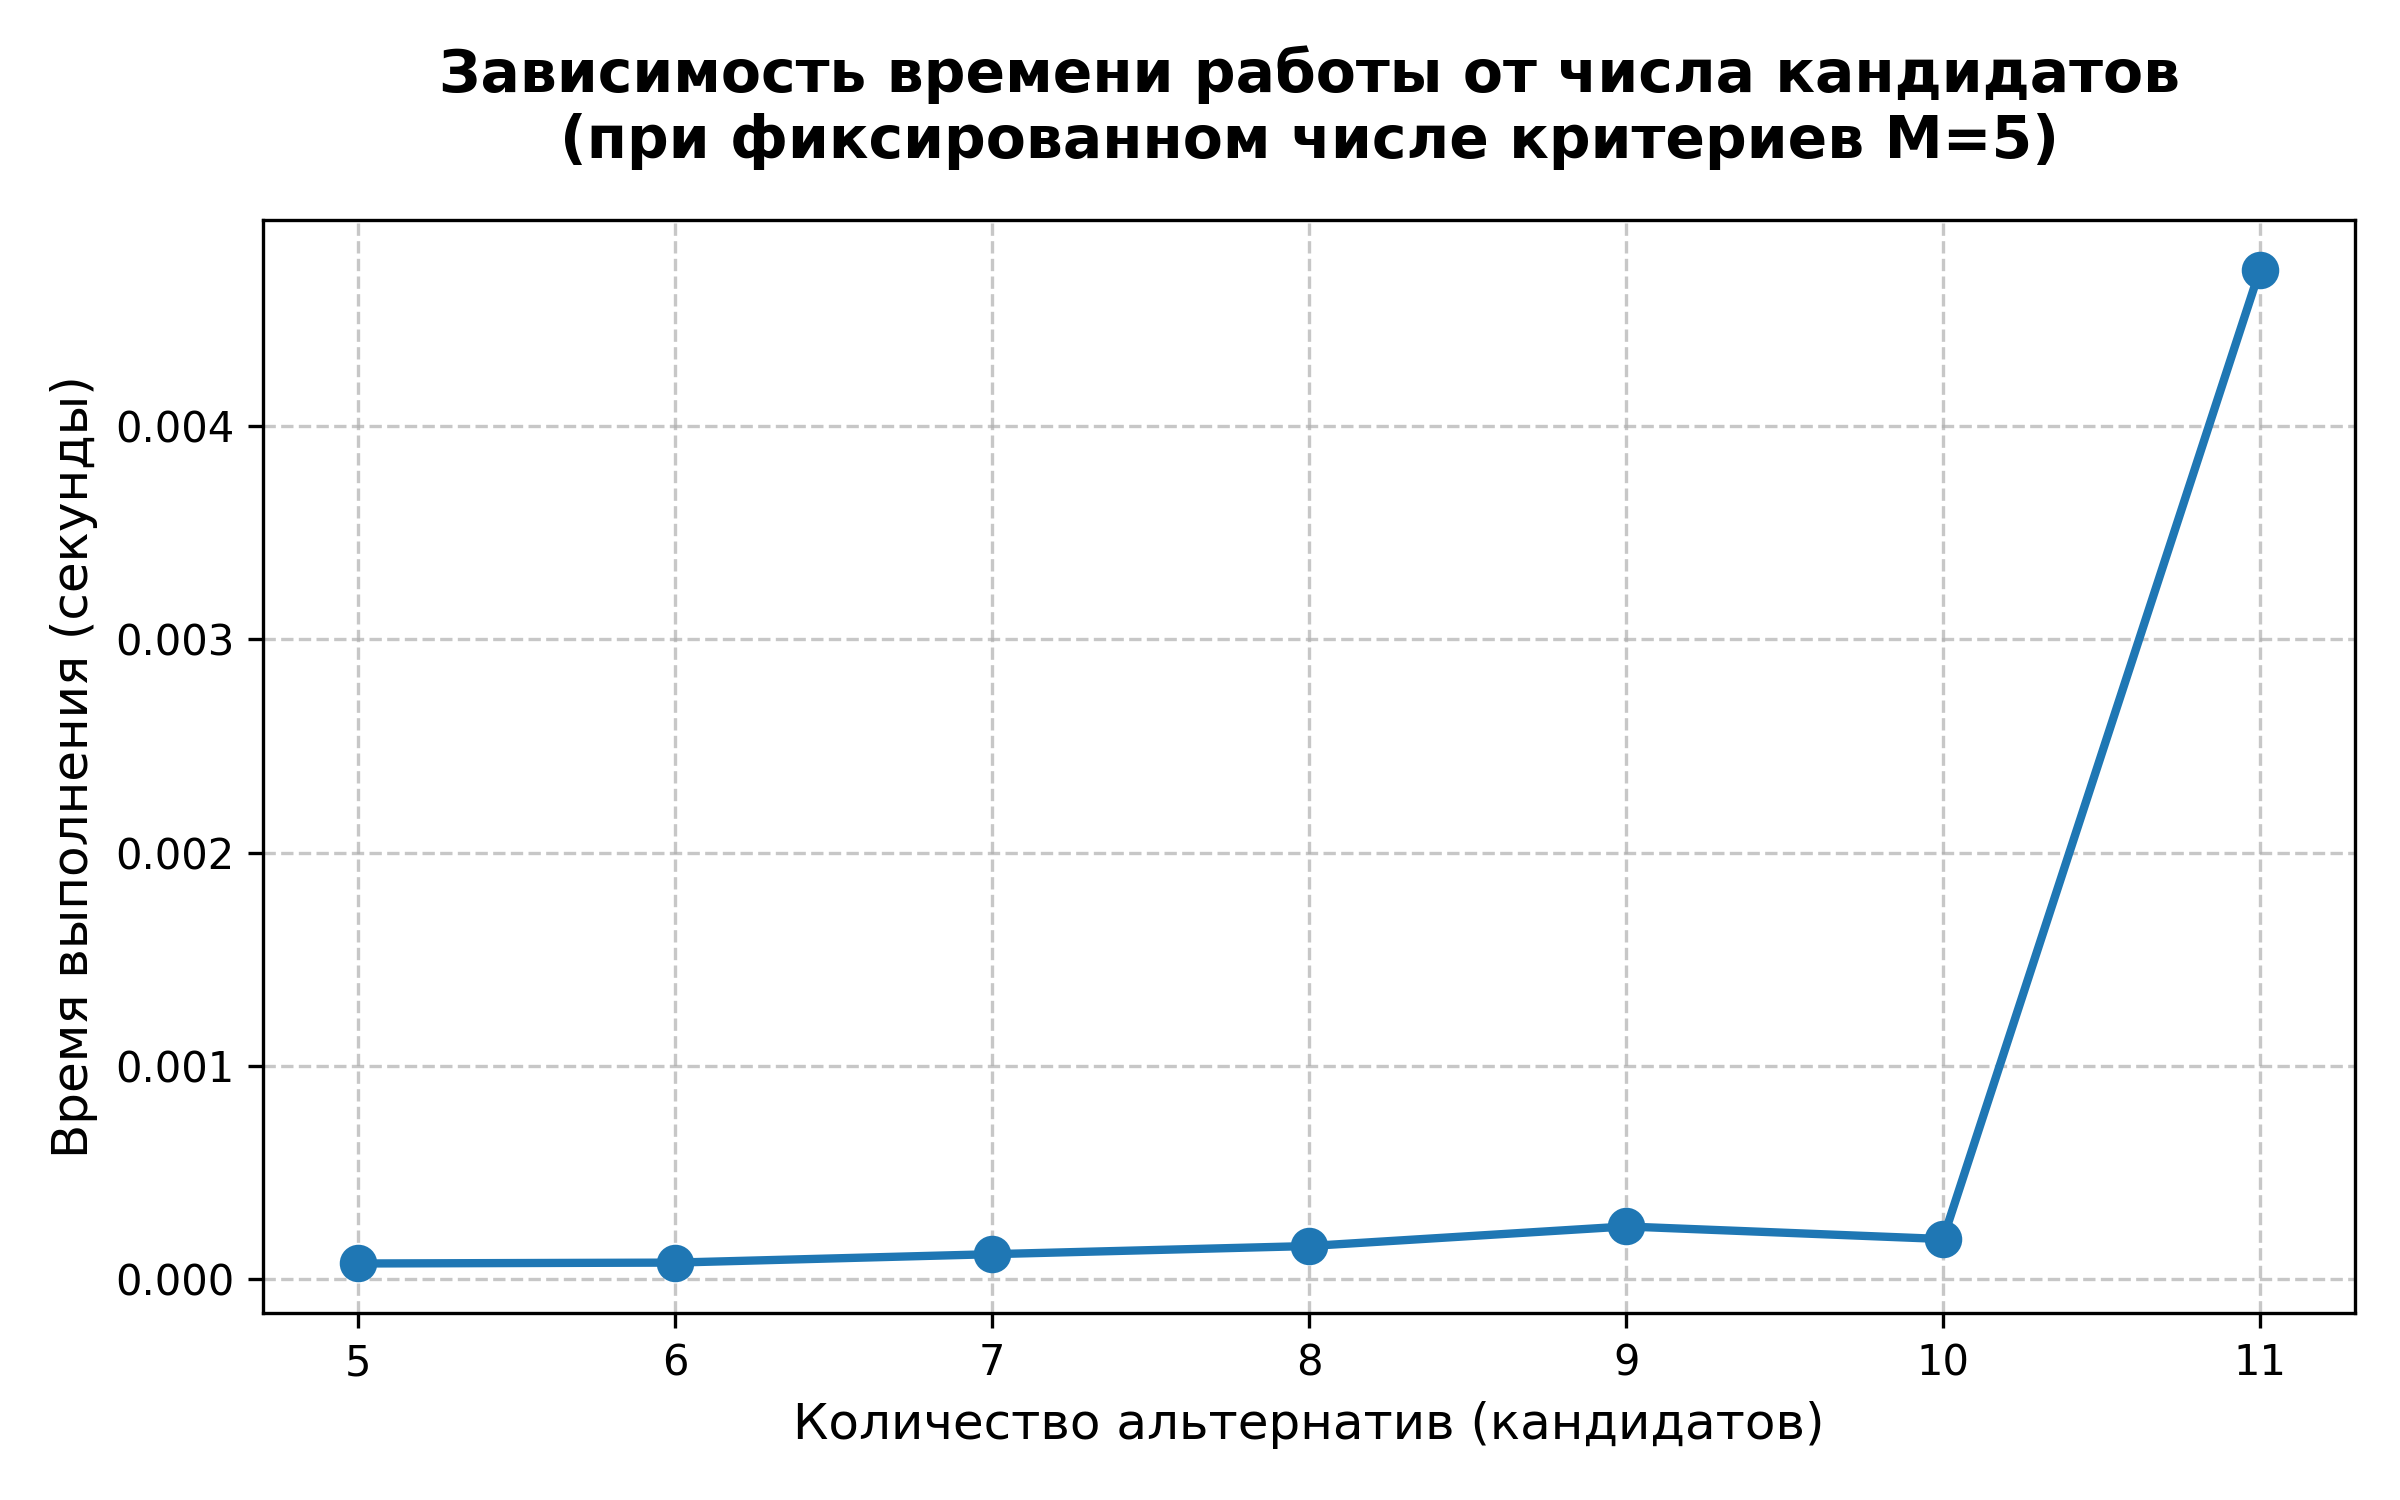
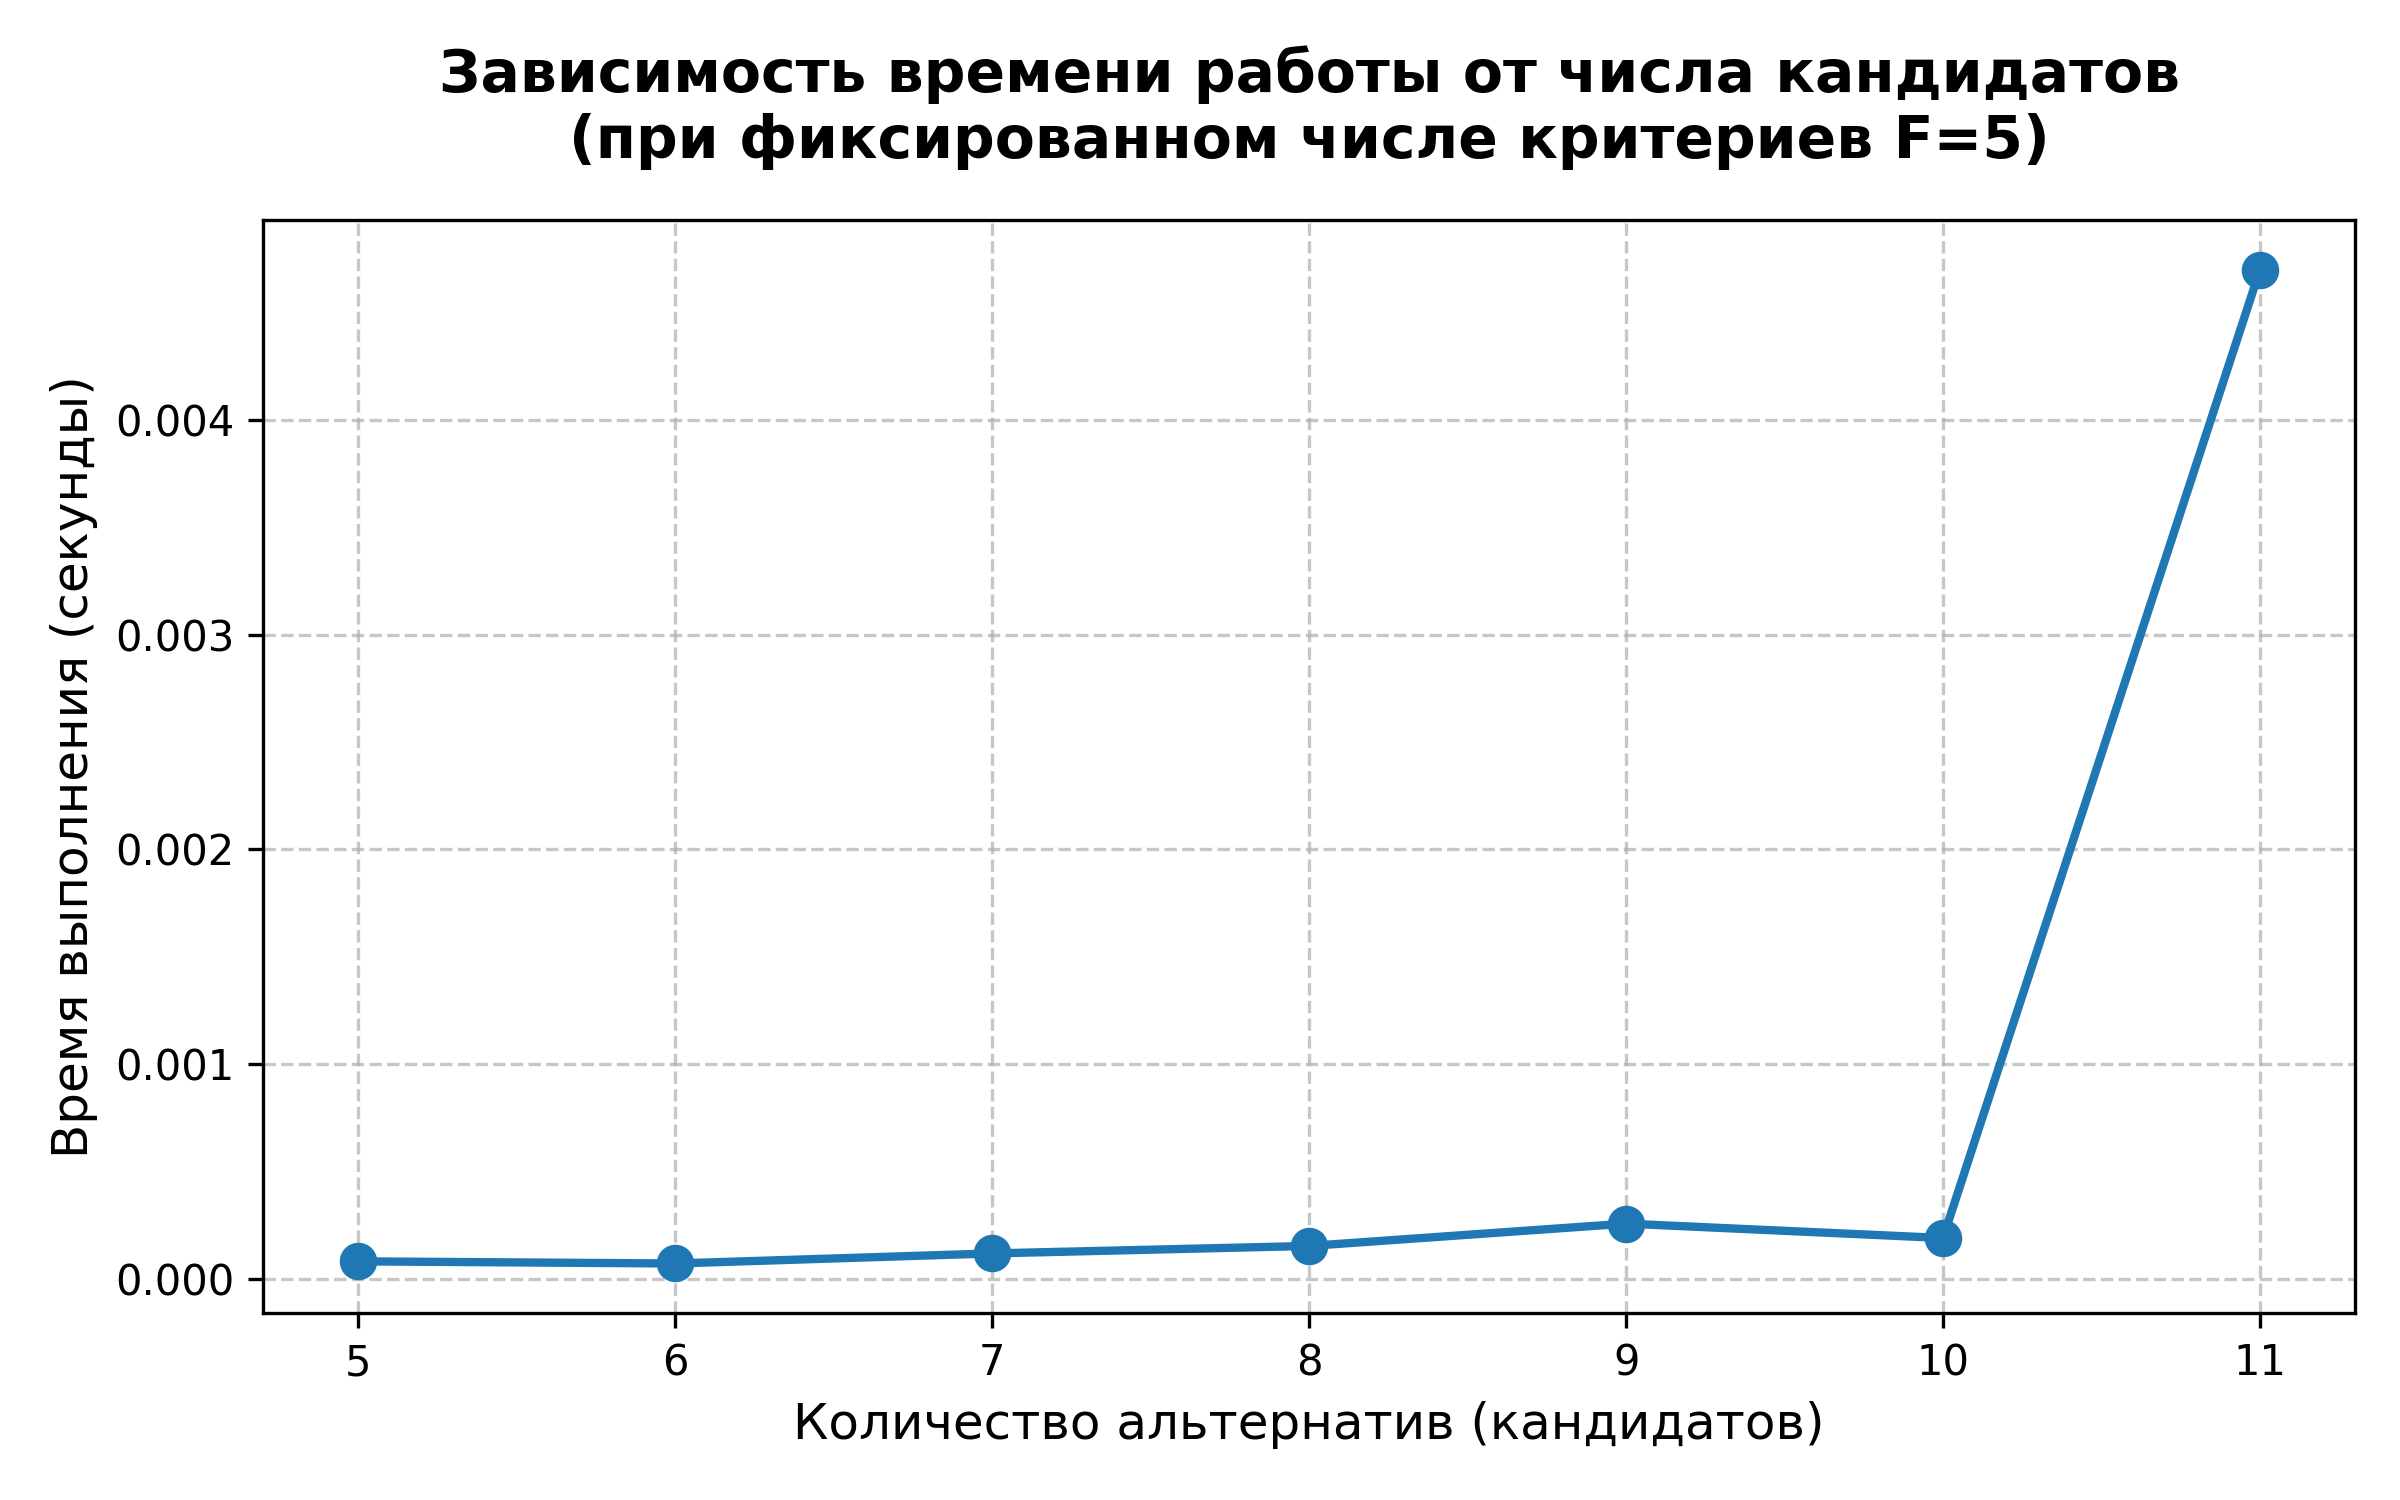
update statistics

diff --git a/research/statistics.py b/research/statistics.py
@@ -68,7 +68,7 @@ def main():
         x_values=cands_x,
         y_times=times_exp1,
         x_label="Количество альтернатив (кандидатов)",
-        title="Зависимость времени работы от числа кандидатов\n(при фиксированном числе критериев M=5)",
+        title="Зависимость времени работы от числа кандидатов\n(при фиксированном числе критериев F=5)",
         filename="statistics/graph_1_candidates.png"
     )
 
@@ -85,7 +85,7 @@ def main():
         x_values=crits_x,
         y_times=times_exp2,
         x_label="Количество критериев",
-        title="Зависимость времени работы от числа критериев\n(при фиксированном числе кандидатов N=7)",
+        title="Зависимость времени работы от числа критериев\n(при фиксированном числе кандидатов A=7)",
         filename="statistics/graph_2_criteria.png"
     )
 
@@ -96,12 +96,12 @@ def main():
         path = os.path.join(base_dir, f"exp3_sq_{s}.csv")
         t = measure_average_time(path, num_runs=10)
         times_exp3.append(t)
-        print(f"  Размерность (N=M): {s:2d} -> Среднее время: {t:.5f} сек")
+        print(f"  Размерность (A=F): {s:2d} -> Среднее время: {t:.5f} сек")
 
     plot_and_save(
         x_values=sq_x,
         y_times=times_exp3,
-        x_label="Размерность задачи (N = M)",
+        x_label="Размерность задачи (A = F)",
         title="Рост времени при одновременном увеличении\nчисла альтернатив и критериев",
         filename="statistics/graph_3_candidates_and_criteria.png"
     )